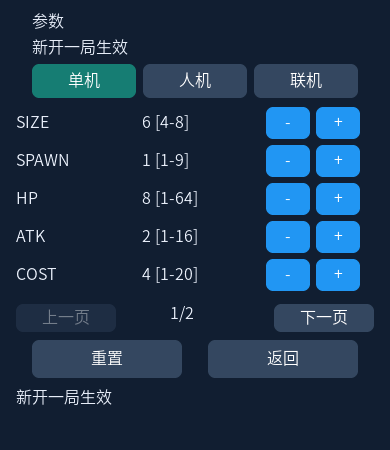
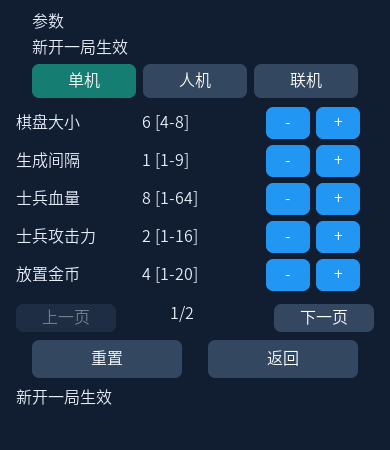
hw(param): 记录学生板端测试与最终中文固件
背景: 学生完成参数页/单机 size=7 测试并回传照片，发现 SPAWN 减一和英文参数名问题；修复后需要保留修复前证据并更新状态。
改动: 保存并重命名 5 张板端照片；更新 evidence README、最终固件/启动日志、docs/00/01/02/03/04、manifest 与当天日志；记录 85 断言、847,344 B、3/3 启动 PASS 和待最终目测项。
验证: 照片显示首页参数入口、英文参数页、6x6/7x7 棋盘；学生确认进入/返回 10 次；最终固件连续 3 次 param/paramui PASS；check_manifest 与 check_trace PASS。
AI协作: 是(Claude Code)；agent 整理证据和文档；学生操作板子并指出 SPAWN、命名和排序问题，未逐行修改代码。

diff --git a/evidence/param/20261028/README.md b/evidence/param/20261028/README.md
@@ -1,7 +1,7 @@
-# 参数页桌面/固件构建证据（2026-10-28）
+# 参数页桌面/固件/板端证据（2026-10-28）
 
-本目录记录参数页与动态棋盘的**软件/构建**结果；板端结果尚未执行。
-桌面 LVGL 与固件均由本机实际命令生成，不是模拟输出。
+本目录记录参数页、动态棋盘与板端启动的证据。桌面 LVGL 与固件均由本机实际命令生成；
+板端照片为学生本人拍摄，agent 只核对可见内容，不代替目测手感。
 
 ## 桌面 LVGL
 
@@ -22,12 +22,16 @@ PASS: TC-316 AI preview before delayed single commit, input guard, cancel
 PASS: TC-317 prep default/swap/cancel/start with human red and human blue
 ```
 
-文件：
+截图（中文参数名、SPAWN 减一修复、AI 搜索层数在第 2 页末行）：
 
[4 lines of base64/hex data omitted]
+- `param_page.png`：第 1 页，单机；SHA-256
[1 lines of base64/hex data omitted]
+- `param_page2.png`：第 2 页，人机；AI 搜索层数在末行；SHA-256
[1 lines of base64/hex data omitted]
+- `param_page2_single.png`：第 2 页，单机；末行隐藏，前 4 项连续；SHA-256
[1 lines of base64/hex data omitted]
+- `param_size7.png`：单机 size=7 开局棋盘
+- `desktop-test.log`：完整测试输出
 
 ## 固件
 
@@ -37,30 +41,51 @@ PASS: TC-317 prep default/swap/cancel/start with human red and human blue
 python scripts/build_firmware.py
 ```
 
-结果：编译成功；`main.bin` 844,200 B（含 param/paramui 返回码输出与静态自检局面）。
+结果：编译成功；`main.bin` **847,344 B**。
 构建日志：`firmware_build.log`，SHA-256
[2 lines of base64/hex data omitted]
 
 固件文件（构建产物，不入库）：`project/build_sf32lb52-lchspi-ulp_hcpu/main.bin`，
[2 lines of base64/hex data omitted]
 
 ## 板端启动（已执行）
 
 - 烧录：CodeKit MCP `sifli_build_download`，COM7，1000000 波特率，verify 通过。
-- 启动日志：`board_boot.log`，SHA-256
[1 lines of base64/hex data omitted]
-- 连续 5 次 `reboot` 均看到：
+- 最终固件连续 3 次 reboot 均为：
   `[geyi:selftest] param=PASS rc=0`、`[geyi:selftest] paramui=PASS rc=0`、
   `[geyi:lcd] READY 390 x 450`、`[geyi:imu] WHO_AM_I=6a`。
-- 说明：第一次烧录 844,176 B 版本曾出现一次 `param=FAIL/paramui=FAIL`；随后把
-  `gy_param_ui_selftest` 的大局面改为静态、完整重编 844,200 B 并重新烧录，连续
-  5 次启动 PASS。首次失败原因未完全定位，保留记录，不写成已彻底解决。
+- 启动日志：`board_boot.log`，SHA-256
[1 lines of base64/hex data omitted]
+- 说明：第一次烧录 844,176 B 版本曾出现一次 `param=FAIL/paramui=FAIL`；把自检局面
+  改为静态、完整重编后连续多次 PASS。原因未完全定位，保留记录，见 `docs/06` R-022。
 
-## 未执行
+## 板端学生测试（2026-10-28 21:30 照片，修复前界面）
 
-- 板端参数页进入/返回 10 次、size=5/7、生成间隔 3、缓冲阈值、搜索深度：
-  需要学生观察屏幕/触摸/倾斜并回传照片、录像。
-- 参数页真实布局/触摸点击、参数生效（REQ-407/410 板端段）尚未确认。
+学生本人完成首页/参数页/单机 size=7 操作，并确认进入/返回参数页 10 次无崩溃。
+这些照片记录的是**修复前**的英文参数名界面，保留作为问题证据：
+
+- `board_home_param_enabled.jpg`：首页“自定义游戏参数”已可用。
+- `board_param_page1_before_fix.jpg`：第 1 页仍为 SIZE/SPAWN/HP 等英文名；
+  学生发现人机 SPAWN 只能加不能减。
+- `board_param_page2_before_fix.jpg`：第 2 页 DEPTH 在中间，单机/联机隐藏时会留空；
+  学生要求把 AI 搜索深度移到末行。
+- `board_single_6x6.jpg`：单机默认 6×6 棋盘。
+- `board_single_size7.jpg`：单机 size=7 棋盘，7×7 布局正常。
+
+## 本轮修复（已构建/烧录，待学生最终目测）
+
+- `GY_P_SPAWN_INTERVAL` 减 1 时跨到相邻奇数，不再被 clamp 回原值；主机新增 10 条断言。
+- 参数名改为中文：棋盘大小、生成间隔、士兵血量、士兵攻击力、放置金币、合并金币、
+  击杀金币、AI搜索层数、方向切换缓冲、数量切换缓冲。
+- 第 2 页顺序改为：合并金币、击杀金币、方向切换缓冲、数量切换缓冲、AI搜索层数；
+  单机/联机隐藏末行，不在中间留空。
+- 桌面测试新增 SPAWN 减一、单机第 2 页末行隐藏断言；截图见上。
+
+## 未执行/待学生确认
+
+- 修复后中文界面的板端照片（当前屏幕应已更新）。
+- SPAWN=3 的实际生成间隔、方向/角度缓冲 0/50 的手感、人机搜索层数 6 的板端耗时。
+- 参数生效（TC-406 板端段）与局中改参数不生效的完整验证。
 - AI 板端耗时/线程栈、帧率：尚未测量。
 
 以上未执行项不得写成通过。

diff --git a/docs/devlog/2026-10-28.md b/docs/devlog/2026-10-28.md
@@ -171,6 +171,21 @@ ASCII 缩写仍需学生确认或后续生成中文字库。
 - 未执行：参数页屏幕布局/触摸进入返回 10 次、size=5/7、参数生效、缓冲手感；
   需要学生观察/拍照/录像。
 
+## 学生板端测试与修复（本次会话）
+
+- 学生本人完成首页/参数页/单机 size=7 操作，确认进入/返回参数页 10 次无崩溃；照片保存为
+  `board_home_param_enabled.jpg`、`board_param_page1_before_fix.jpg`、
+  `board_param_page2_before_fix.jpg`、`board_single_6x6.jpg`、`board_single_size7.jpg`。
+- 学生发现两个问题：① 人机 SPAWN 减一后被钳位回原值，界面只能加不能减；
+  ② 参数名仍是英文，新用户看不懂 MERGE 等缩写。
+- 修复：生成间隔减一时跨到相邻奇数（主机新增 10 条断言，参数页 85 断言）；
+  参数名改为中文（棋盘大小/生成间隔/士兵血量/士兵攻击力/放置金币/合并金币/击杀金币/
+  AI搜索层数/方向切换缓冲/数量切换缓冲）；按学生要求把 AI 搜索层数移到第 2 页末行，
+  单机/联机隐藏时不在中间留空。
+- 重新生成字库（152 个 CJK 字形）、重编桌面 LVGL 与固件；最终 `main.bin` 847,344 B，
+  烧录后连续 3 次启动 `param/paramui=PASS`。桌面截图确认中文名、SPAWN 减一、
+  单机第 2 页末行隐藏。修复后的中文界面仍需学生最终目测。
+
 ## 遇到的问题与补充
 
 1. 参数页需要中文标签，但当前环境没有 SDK 的思源字体源文件，无法重新生成子集字库。

diff --git a/docs/03-测试计划.md b/docs/03-测试计划.md
@@ -77,11 +77,11 @@ TC-407（REQ-408）：拆成**主机段、桌面段与板端段**。
 
 - **主机段（已通过）**：`tests/test_param_ui.c` 覆盖单机/人机/联机模式切换、两页条目映射、
   `search_depth` 仅在人机模式出现、棋盘大小边界钳位、生成间隔奇数钳位、重置只影响当前模式、
-  参数应用到 `GyConfig`；`python tools/run_host.py` 的 `geyi-param-ui-tests` 75 断言 PASS。
+  参数应用到 `GyConfig`；`python tools/run_host.py` 的 `geyi-param-ui-tests` 85 断言 PASS（含 SPAWN 减一、第 2 页末行）。
 - **桌面段（已通过）**：`tools/geyi_desktop.c --test` 点击首页参数入口、模式切换、
   加减、翻页、重置、返回，并验证单机开局使用 size=7；`build_desktop.py` 编译 459 个
   SDK LVGL 源文件后全部 PASS，日志与截图见 `evidence/param/20261028/`。
-- **板端段（部分执行）**：固件 844,200 B 已烧录，连续 5 次启动 `param/paramui=PASS`；首页进入参数页再返回 10 次、触摸/布局/参数生效尚未执行。
+- **板端段（部分执行）**：固件 847,344 B 已烧录，最终版本连续 3 次启动 `param/paramui=PASS`；学生已确认进入/返回参数页 10 次；修复后的中文界面、触摸/布局、参数生效待最终目测。
   断言无崩溃、无残留状态、返回后首页按钮仍可点；未实现的参数项须在界面标注。
   需学生烧录并回传屏幕录像，主机/桌面通过不代替板端验收。
 

diff --git a/docs/02-方案设计说明.md b/docs/02-方案设计说明.md
@@ -324,9 +324,9 @@ flowchart LR
 | repo | Git/GitHub 协作基线 | — | REQ-201, REQ-202 | — | TC-201~TC-203 |
 
 > 当前实现/证据状态（2026-10-28）：`config` 主机段 2517 断言通过；参数页状态机
-> `param_ui` 主机 75 断言通过；参数页已接入首页并应用单机/人机参数，棋盘按 4~8
-> 动态布局；桌面 LVGL `--test` 通过（含 size=7），固件 `main.bin` 844,200 B 已烧录，
-> 连续 5 次启动 `param/paramui=PASS`；参数页 UI/触摸尚未由学生确认。
+> `param_ui` 主机 85 断言通过；参数页已接入首页并应用单机/人机参数，棋盘按 4~8
+> 动态布局；桌面 LVGL `--test` 通过（含 size=7、SPAWN 减一、末行隐藏），固件 `main.bin` 847,344 B 已烧录，
+> 最终版本连续 3 次启动 `param/paramui=PASS`；学生已确认进入/返回 10 次，修复后的中文界面待最终目测。
 > `balance_scan`（REQ-411）、历史/计时和联机/BLE 尚未实现或未提交。
 > 板端状态以 `04-测试报告.md` 顶部“当前状态总表”为准；视频/照片只按学生确认记录，
 > 不写成 agent 实测。
